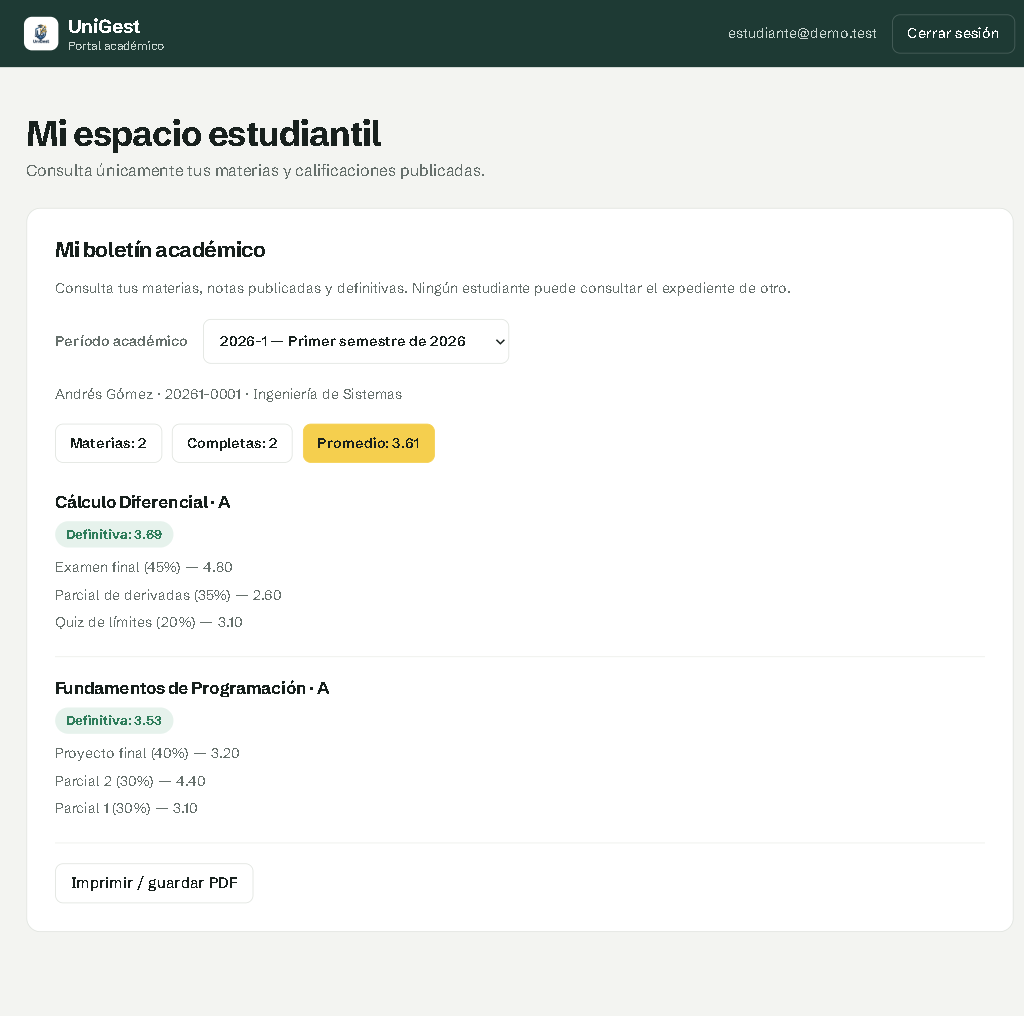
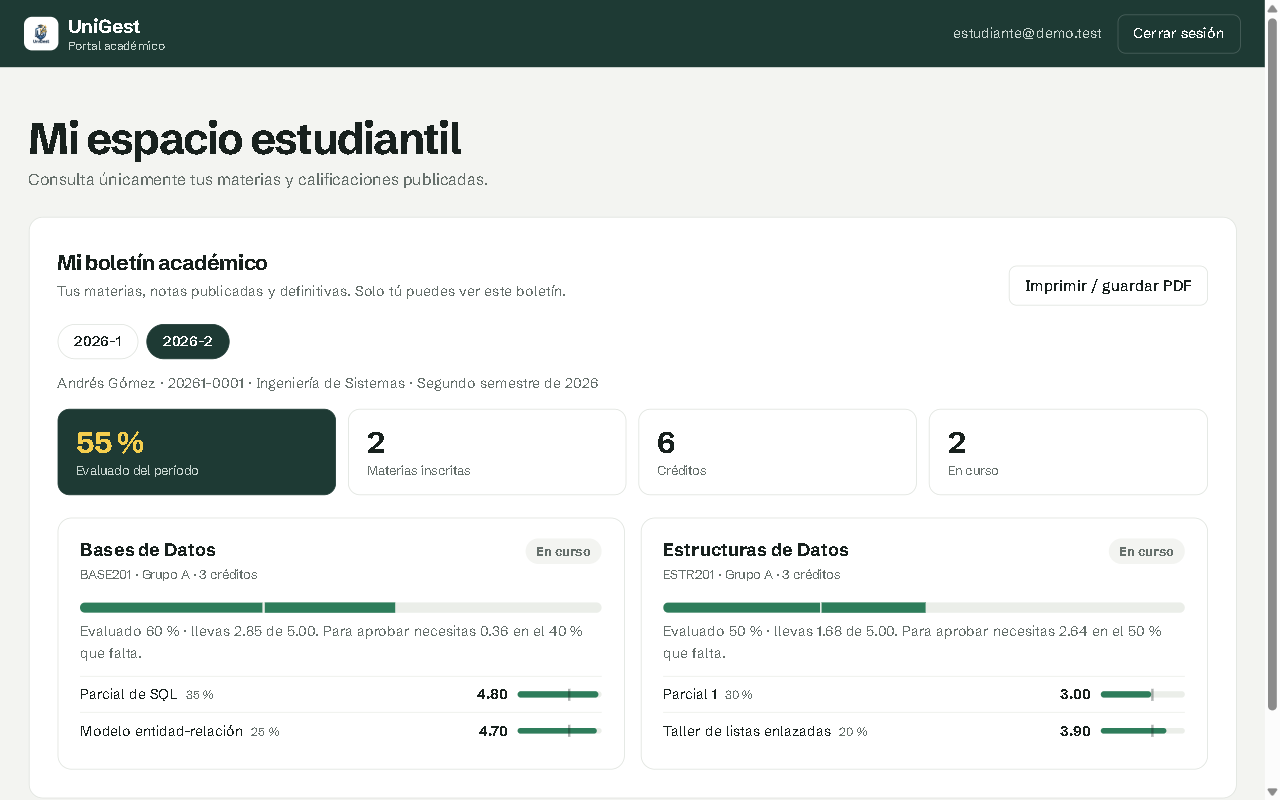
Documentación de la API con Swagger y capturas nuevas
- springdoc-openapi 3.1.1: especificación OpenAPI en /v3/api-docs y
  Swagger UI en /swagger-ui.html, con las rutas agrupadas por módulo y
  nombres en español. Se puede apagar con API_DOCS=false.
- Seguridad: la documentación es pública, las rutas siguen protegidas.
- 3 pruebas nuevas (100 en total).
- README: enlace a la documentación, capturas del portal docente, del
  boletín y de Swagger.

diff --git a/src/main/java/com/unigest/config/OpenApiConfig.java b/src/main/java/com/unigest/config/OpenApiConfig.java
@@ -1,0 +1,76 @@
+package com.unigest.config;
+
+import io.swagger.v3.oas.models.OpenAPI;
+import io.swagger.v3.oas.models.info.Contact;
+import io.swagger.v3.oas.models.info.Info;
+import io.swagger.v3.oas.models.info.License;
+import io.swagger.v3.oas.models.tags.Tag;
+import java.util.ArrayList;
+import java.util.List;
+import java.util.Map;
+import org.springdoc.core.customizers.OpenApiCustomizer;
+import org.springframework.context.annotation.Bean;
+import org.springframework.context.annotation.Configuration;
+
+/** Datos que muestra la documentación de la API en /swagger-ui.html. */
+@Configuration
+public class OpenApiConfig {
+
+    /** Nombre legible y descripción de cada grupo de rutas, numerados en el orden en que se muestran. */
+    private static final Map<String, String[]> GRUPOS = Map.ofEntries(
+            Map.entry("sesion-controller", new String[] {"1. Sesión", "Inicio y cierre de sesión, token CSRF y usuario actual."}),
+            Map.entry("acceso-controller", new String[] {"2. Accesos", "Credenciales de docentes y estudiantes y cambio de contraseña."}),
+            Map.entry("estudiante-controller", new String[] {"3. Estudiantes", "Registro y consulta de estudiantes (administrador)."}),
+            Map.entry("docente-controller", new String[] {"4. Docentes", "Registro y consulta de docentes (administrador)."}),
+            Map.entry("programa-controller", new String[] {"5. Programas", "Programas universitarios."}),
+            Map.entry("asignatura-controller", new String[] {"6. Asignaturas", "Materias y créditos."}),
+            Map.entry("periodo-controller", new String[] {"7. Períodos", "Períodos académicos."}),
+            Map.entry("grupo-controller", new String[] {"8. Grupos", "Grupos por asignatura, docente y cupos."}),
+            Map.entry("matricula-controller", new String[] {"9. Matrículas", "Inscripción y retiro de estudiantes en grupos."}),
+            Map.entry("evaluacion-controller", new String[] {"10. Evaluaciones", "Plan de evaluación de cada grupo (ponderaciones al 100 %)."}),
+            Map.entry("calificacion-controller", new String[] {"11. Calificaciones", "Notas, correcciones auditadas y definitivas."}),
+            Map.entry("reporte-academico-controller", new String[] {"12. Reportes", "Consolidados por grupo y boletines por estudiante."}),
+            Map.entry("mi-espacio-controller", new String[] {"13. Mi espacio", "Portal de docentes y estudiantes: solo sus propios datos."}),
+            Map.entry("estado-controller", new String[] {"14. Estado", "Salud del servicio."}),
+            Map.entry("demo-controller", new String[] {"15. Demo", "Información de la demo pública."}));
+
+    @Bean
+    OpenAPI unigestOpenApi() {
+        return new OpenAPI().info(new Info()
+                .title("UniGest API")
+                .version("0.11.0")
+                .description("""
+                        API REST de gestión académica: estudiantes, docentes, grupos, matrículas, \
+                        evaluaciones, notas y reportes.
+
+                        La autenticación es por sesión: inicia sesión en /panel/index.html y \
+                        vuelve aquí para consultar las rutas protegidas. Las operaciones que \
+                        modifican datos exigen además el token CSRF de /api/v1/auth/csrf \
+                        (cabecera X-CSRF-TOKEN).""")
+                .contact(new Contact().name("Stiven").url("https://github.com/stiven-triana-dev"))
+                .license(new License().name("Proyecto educativo")));
+    }
+
+    /** Cambia los nombres técnicos ("grupo-controller") por nombres en español con descripción. */
+    @Bean
+    OpenApiCustomizer gruposEnEspanol() {
+        return api -> {
+            if (api.getPaths() != null) {
+                api.getPaths().values().forEach(ruta -> ruta.readOperations().forEach(op -> {
+                    if (op.getTags() != null) {
+                        op.setTags(op.getTags().stream()
+                                .map(t -> GRUPOS.containsKey(t) ? GRUPOS.get(t)[0] : t).toList());
+                    }
+                }));
+            }
+            List<Tag> tags = new ArrayList<>();
+            GRUPOS.values().forEach(g -> tags.add(new Tag().name(g[0]).description(g[1])));
+            tags.sort((a, b) -> Integer.compare(numero(a.getName()), numero(b.getName())));
+            api.setTags(tags);
+        };
+    }
+
+    private static int numero(String nombre) {
+        return Integer.parseInt(nombre.substring(0, nombre.indexOf('.')));
+    }
+}

diff --git a/src/test/java/com/unigest/config/DocumentacionApiTest.java b/src/test/java/com/unigest/config/DocumentacionApiTest.java
@@ -1,0 +1,55 @@
+package com.unigest.config;
+
+import static org.junit.jupiter.api.Assertions.*;
+
+import org.junit.jupiter.api.BeforeEach;
+import org.junit.jupiter.api.Test;
+import org.springframework.beans.factory.annotation.Autowired;
+import org.springframework.boot.test.context.SpringBootTest;
+import org.springframework.mock.web.MockHttpServletResponse;
+import org.springframework.test.web.servlet.MockMvc;
+import org.springframework.test.web.servlet.setup.MockMvcBuilders;
+import org.springframework.web.context.WebApplicationContext;
+
+import static org.springframework.security.test.web.servlet.setup.SecurityMockMvcConfigurers.springSecurity;
+import static org.springframework.test.web.servlet.request.MockMvcRequestBuilders.get;
+
+/** La documentación de la API es pública, pero no abre las rutas privadas. */
+@SpringBootTest
+class DocumentacionApiTest {
+
+    @Autowired private WebApplicationContext contexto;
+    private MockMvc mockMvc;
+
+    @BeforeEach
+    void preparar() {
+        mockMvc = MockMvcBuilders.webAppContextSetup(contexto).apply(springSecurity()).build();
+    }
+
+    private MockHttpServletResponse pedir(String ruta) throws Exception {
+        return mockMvc.perform(get(ruta)).andReturn().getResponse();
+    }
+
+    @Test
+    void laEspecificacionOpenApiEsPublicaYDescribeLaApi() throws Exception {
+        MockHttpServletResponse respuesta = pedir("/v3/api-docs");
+        assertEquals(200, respuesta.getStatus());
+        String json = respuesta.getContentAsString();
+        assertTrue(json.contains("UniGest API"));
+        assertTrue(json.contains("/api/v1/estudiantes"));
+        assertTrue(json.contains("/api/v1/mi-espacio/estudiante/boletin"));
+        assertTrue(json.contains("3. Estudiantes"), "los grupos de rutas deben tener nombre en español");
+        assertFalse(json.contains("-controller"), "no deben quedar nombres técnicos de controlador");
+    }
+
+    @Test
+    void swaggerUiEsPublico() throws Exception {
+        int estado = pedir("/swagger-ui/index.html").getStatus();
+        assertEquals(200, estado);
+    }
+
+    @Test
+    void verLaDocumentacionNoDaAccesoALosDatos() throws Exception {
+        assertEquals(401, pedir("/api/v1/estudiantes").getStatus());
+    }
+}

diff --git a/src/main/java/com/unigest/config/SecurityConfig.java b/src/main/java/com/unigest/config/SecurityConfig.java
@@ -55,7 +55,12 @@ public class SecurityConfig {
                         "/api/v1/auth/csrf",
                         "/api/v1/demo",
                         "/panel/**",
-                        "/portal/**"
+                        "/portal/**",
+                        // Documentación de la API (Swagger). Probar rutas privadas exige sesión.
+                        "/swagger-ui.html",
+                        "/swagger-ui/**",
+                        "/v3/api-docs",
+                        "/v3/api-docs/**"
                 ).permitAll()
 
                 // Inicio de sesión.

diff --git a/README.md b/README.md
@@ -3,13 +3,14 @@
 ![Java 21](https://img.shields.io/badge/Java-21-orange)
 ![Spring Boot](https://img.shields.io/badge/Spring%20Boot-4.1.1-6DB33F)
 ![PostgreSQL](https://img.shields.io/badge/PostgreSQL-18-336791)
-![Tests](https://img.shields.io/badge/tests-97%20passing-brightgreen)
+![Tests](https://img.shields.io/badge/tests-100%20passing-brightgreen)
 [![Demo](https://img.shields.io/badge/demo-en%20l%C3%ADnea-1E3A34)](https://unigest-d9zx.onrender.com)
+[![API](https://img.shields.io/badge/API-Swagger-85EA2D)](https://unigest-d9zx.onrender.com/swagger-ui.html)
 [![CI](https://github.com/stiven-triana-dev/UniGest/actions/workflows/tests.yml/badge.svg)](https://github.com/stiven-triana-dev/UniGest/actions)
 
 **UniGest** es una aplicación web para administrar procesos académicos universitarios con tres espacios de trabajo: **administración, docencia y estudiantes**. Gestiona matrículas, grupos, evaluaciones, calificaciones y boletines, con acceso controlado según el rol del usuario.
 
-**Versión:** `v0.11.0` · **Pruebas:** 97 automatizadas, 0 fallos · **CI:** GitHub Actions con Java 21 y PostgreSQL 18
+**Versión:** `v0.11.0` · **Pruebas:** 100 automatizadas, 0 fallos · **CI:** GitHub Actions con Java 21 y PostgreSQL 18
 
 ## 🌐 Demo en línea
 
@@ -20,6 +21,8 @@
 | Administración | `admin@demo.test` | Estudiantes, docentes, grupos, matrículas, evaluaciones, notas y reportes |
 | Docente | `docente@demo.test` | Sus grupos, el plan de evaluación y el libro de notas |
 | Estudiante | `estudiante@demo.test` | Su boletín por periodo, con notas publicadas y definitivas |
+
+**Documentación de la API:** [unigest-d9zx.onrender.com/swagger-ui.html](https://unigest-d9zx.onrender.com/swagger-ui.html), con todas las rutas REST agrupadas por módulo. Para consultar las rutas protegidas, primero inicia sesión en la demo.
 
 Contraseña de las tres cuentas: `Demo-UniGest-2026`. Los datos son ficticios y se reinician cada vez que el servicio arranca, y las cuentas de prueba no se pueden modificar. La primera visita puede tardar cerca de un minuto mientras el servidor gratuito despierta.
 
@@ -33,6 +36,10 @@ Contraseña de las tres cuentas: `Demo-UniGest-2026`. Los datos son ficticios y 
 | --- | --- |
 | ![Portal docente](docs/img/portal-docente.png) | ![Boletín del estudiante](docs/img/boletin.png) |
 
+| Documentación de la API (Swagger) |
+| --- |
+| ![Documentación de la API con Swagger](docs/img/swagger.png) |
+
 ## ✨ Funcionalidades
 
 | Rol | Qué puede hacer |
@@ -41,13 +48,14 @@ Contraseña de las tres cuentas: `Demo-UniGest-2026`. Los datos son ficticios y 
 | **Docente** | Consultar sus grupos asignados; crear y publicar evaluaciones; registrar calificaciones y ver resultados. |
 | **Estudiante** | Consultar sus periodos, asignaturas, notas publicadas y boletines; imprimir o guardar el boletín como PDF. |
 
-Además incluye cálculo de notas definitivas, historial de correcciones de calificaciones, desactivación lógica de cuentas y exportación de reportes a CSV.
+Además incluye cálculo de notas definitivas (y, en materias en curso, la nota que le falta al estudiante para aprobar), historial de correcciones de calificaciones, desactivación lógica de cuentas y exportación de reportes a CSV.
 
 ## 🛠 Tecnologías
 
 | Capa | Tecnologías |
 | --- | --- |
 | Backend | Java 21, Spring Boot 4.1.1, Spring MVC, Spring Data JPA |
+| Documentación | OpenAPI 3.1 con springdoc y Swagger UI |
 | Seguridad | Spring Security, sesiones HTTP, CSRF, BCrypt, control de acceso por roles |
 | Base de datos | PostgreSQL 18, migraciones con Flyway |
 | Frontend | HTML, CSS y JavaScript nativo (sin frameworks) |
@@ -156,7 +164,7 @@ mvn clean test
 Resultado verificado:
 
 ```text
-Tests run: 97, Failures: 0, Errors: 0, Skipped: 0
+Tests run: 100, Failures: 0, Errors: 0, Skipped: 0
 BUILD SUCCESS
 ```
 
@@ -171,12 +179,13 @@ Las pruebas cubren lógica de negocio (cálculo de notas, matrículas, cupos), s
 - Cookies `HttpOnly` y `SameSite=Lax`; la sesión expira a los 30 minutos de inactividad.
 - Por defecto escucha solo en `127.0.0.1`.
 - Los errores no exponen mensajes internos ni trazas.
+- La documentación de la API (`/swagger-ui.html`) es pública, pero no abre los datos: cada ruta sigue exigiendo sesión y rol. Se desactiva con `API_DOCS=false`.
 
 > **Nota:** esta versión está pensada para uso local y demostración. Para exponerla a internet haría falta HTTPS, `SESSION_COOKIE_SECURE=true`, gestión de secretos y un usuario de base de datos con privilegios mínimos.
 
 ## 🗺 Próximas mejoras
 
-- [ ] Documentación de la API con OpenAPI/Swagger
+- [x] Documentación de la API con OpenAPI/Swagger
 - [ ] `docker-compose` para levantar la aplicación y PostgreSQL con un solo comando
 - [ ] Paginación y filtros en los listados
 - [x] Despliegue en línea con HTTPS (Render + Neon, con Docker)
